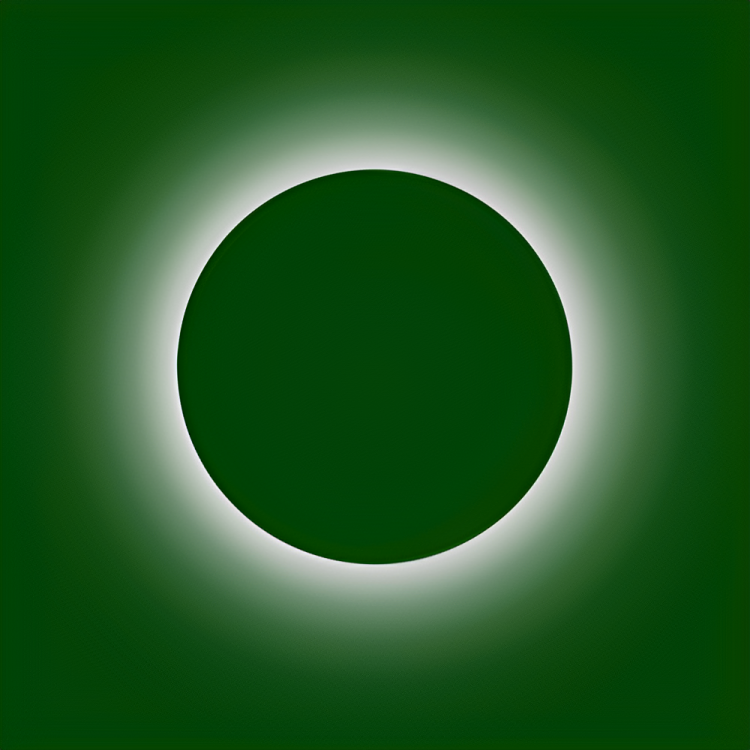
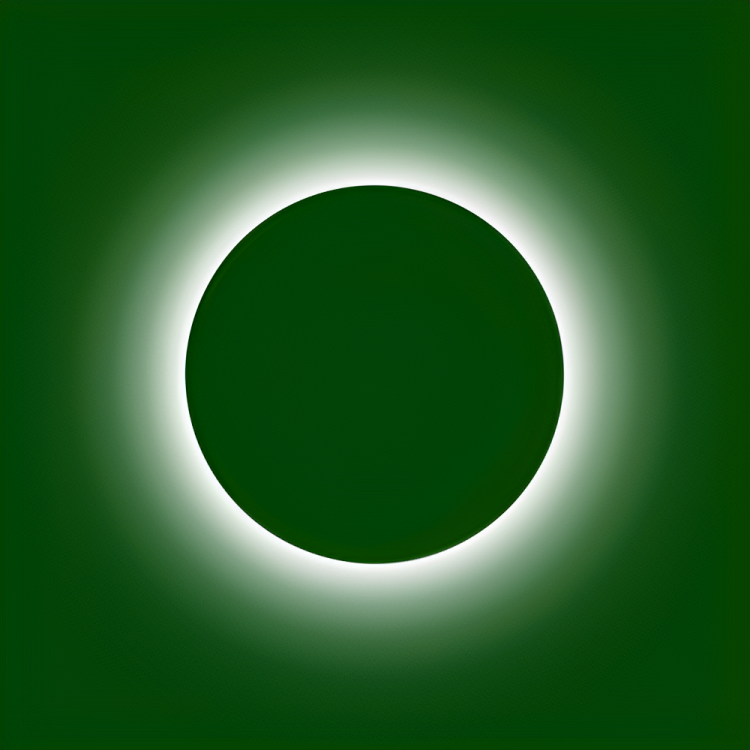
Changed OUtline around pfp

Changed region(s): [[0.2147, 0.184, 0.7667, 0.7973]]

diff --git a/pages/profile/[id].vue b/pages/profile/[id].vue
@@ -13,7 +13,7 @@
                         <img src ="/logo-alt.png" class = "mx-auto w-[15%]" alt = "acre group logo" />
 
                         <h1 class="font-bold text-white text-2xl drop-shadow-lg drop-shadow-white my-3">Personal Profile</h1>
-                        <div class = "bg-transparent circle-grad py-10 my-3">
+                        <div class = "bg-transparent circle-grad py-20 -my-12 my-3">
                             <img :src = "(userDetails.data.value?.data as UserDetails).DpUrl" class = "w-[40%] circle-mask mx-auto" alt = "member pfp"/>
                         </div>
                         <img src = "/PremiumIcon.png" class = "mx-auto my-5 w-[20%] absolute top-0 right-0 mt-[35%] mr-[28%] z-10">
